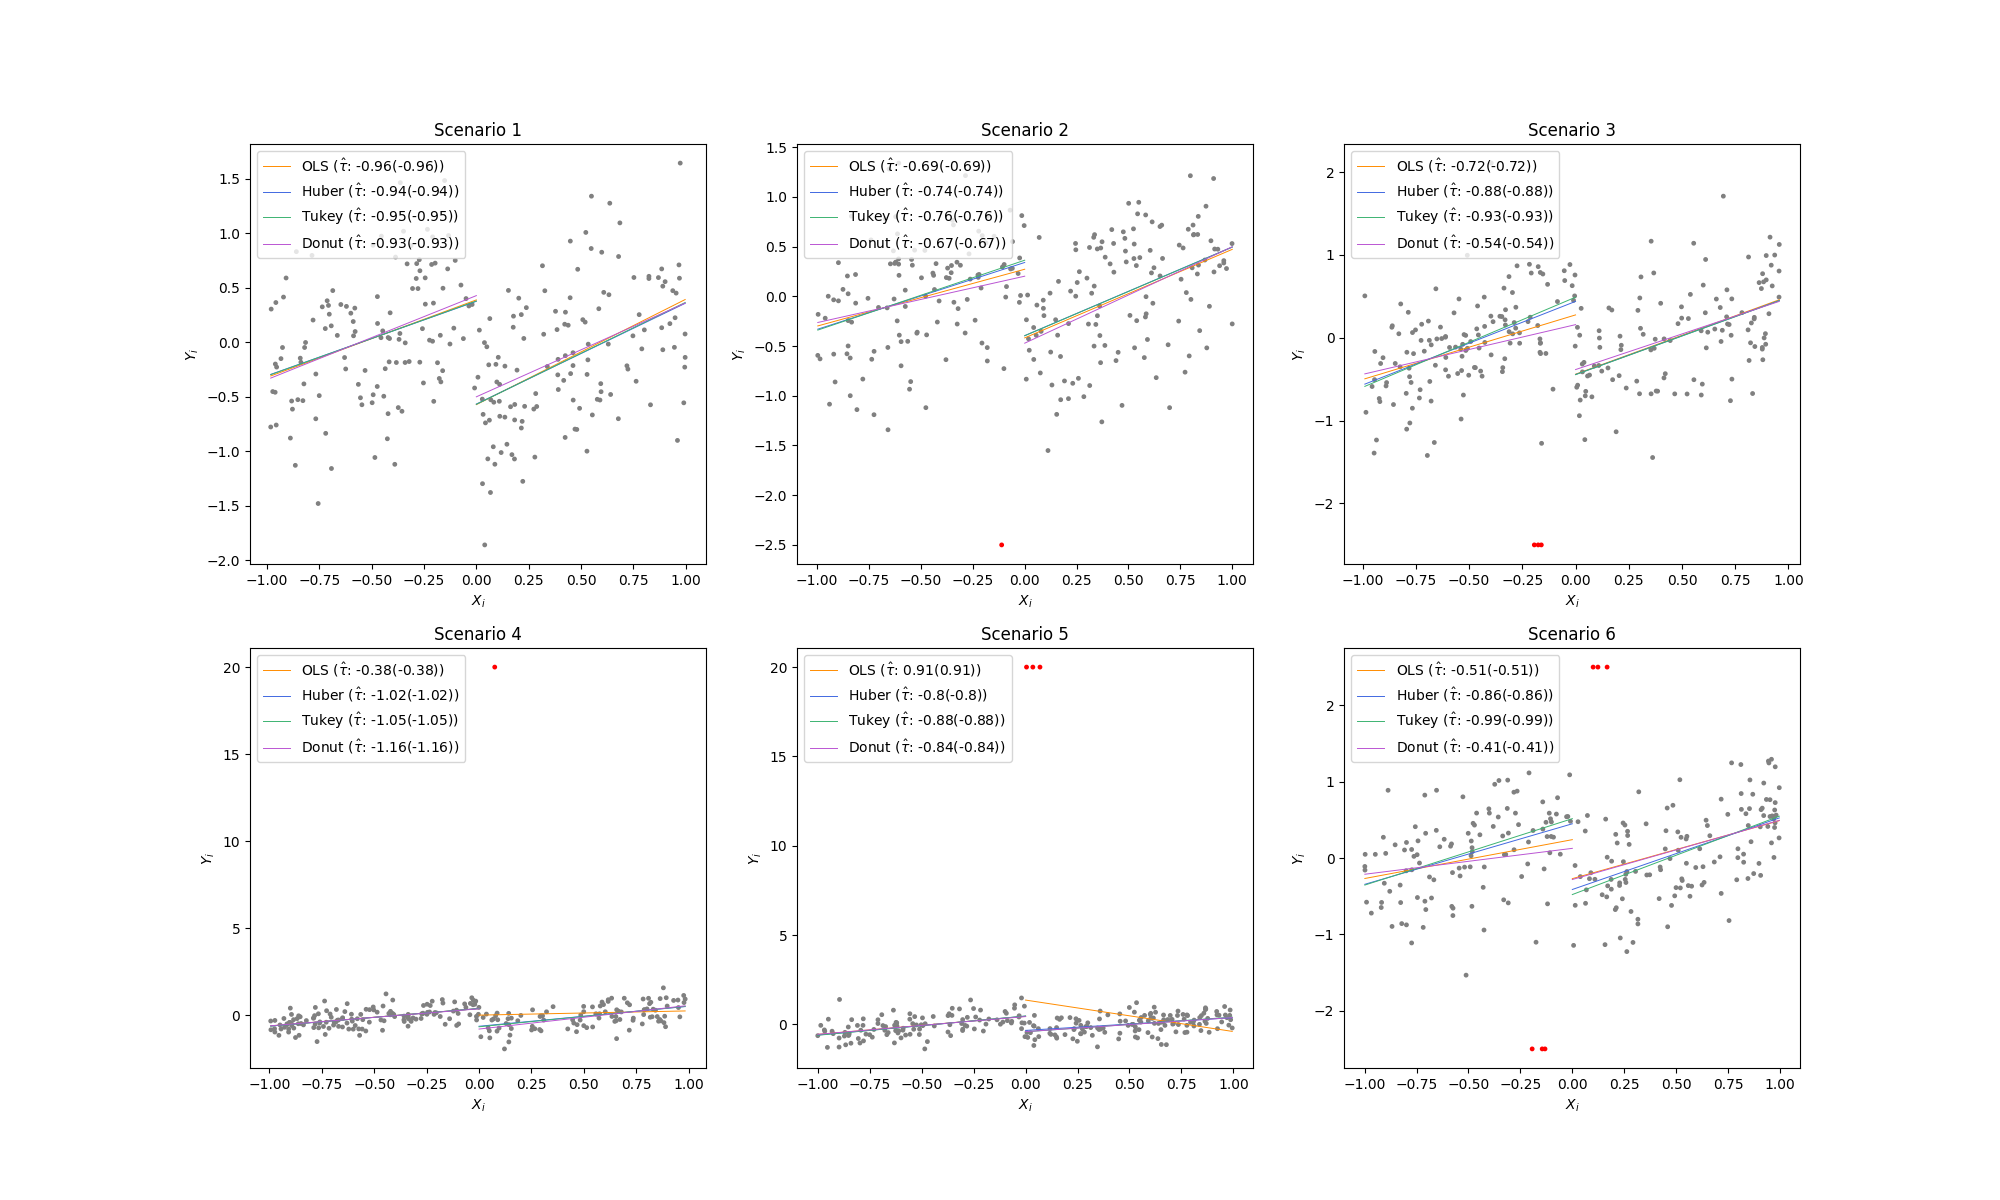
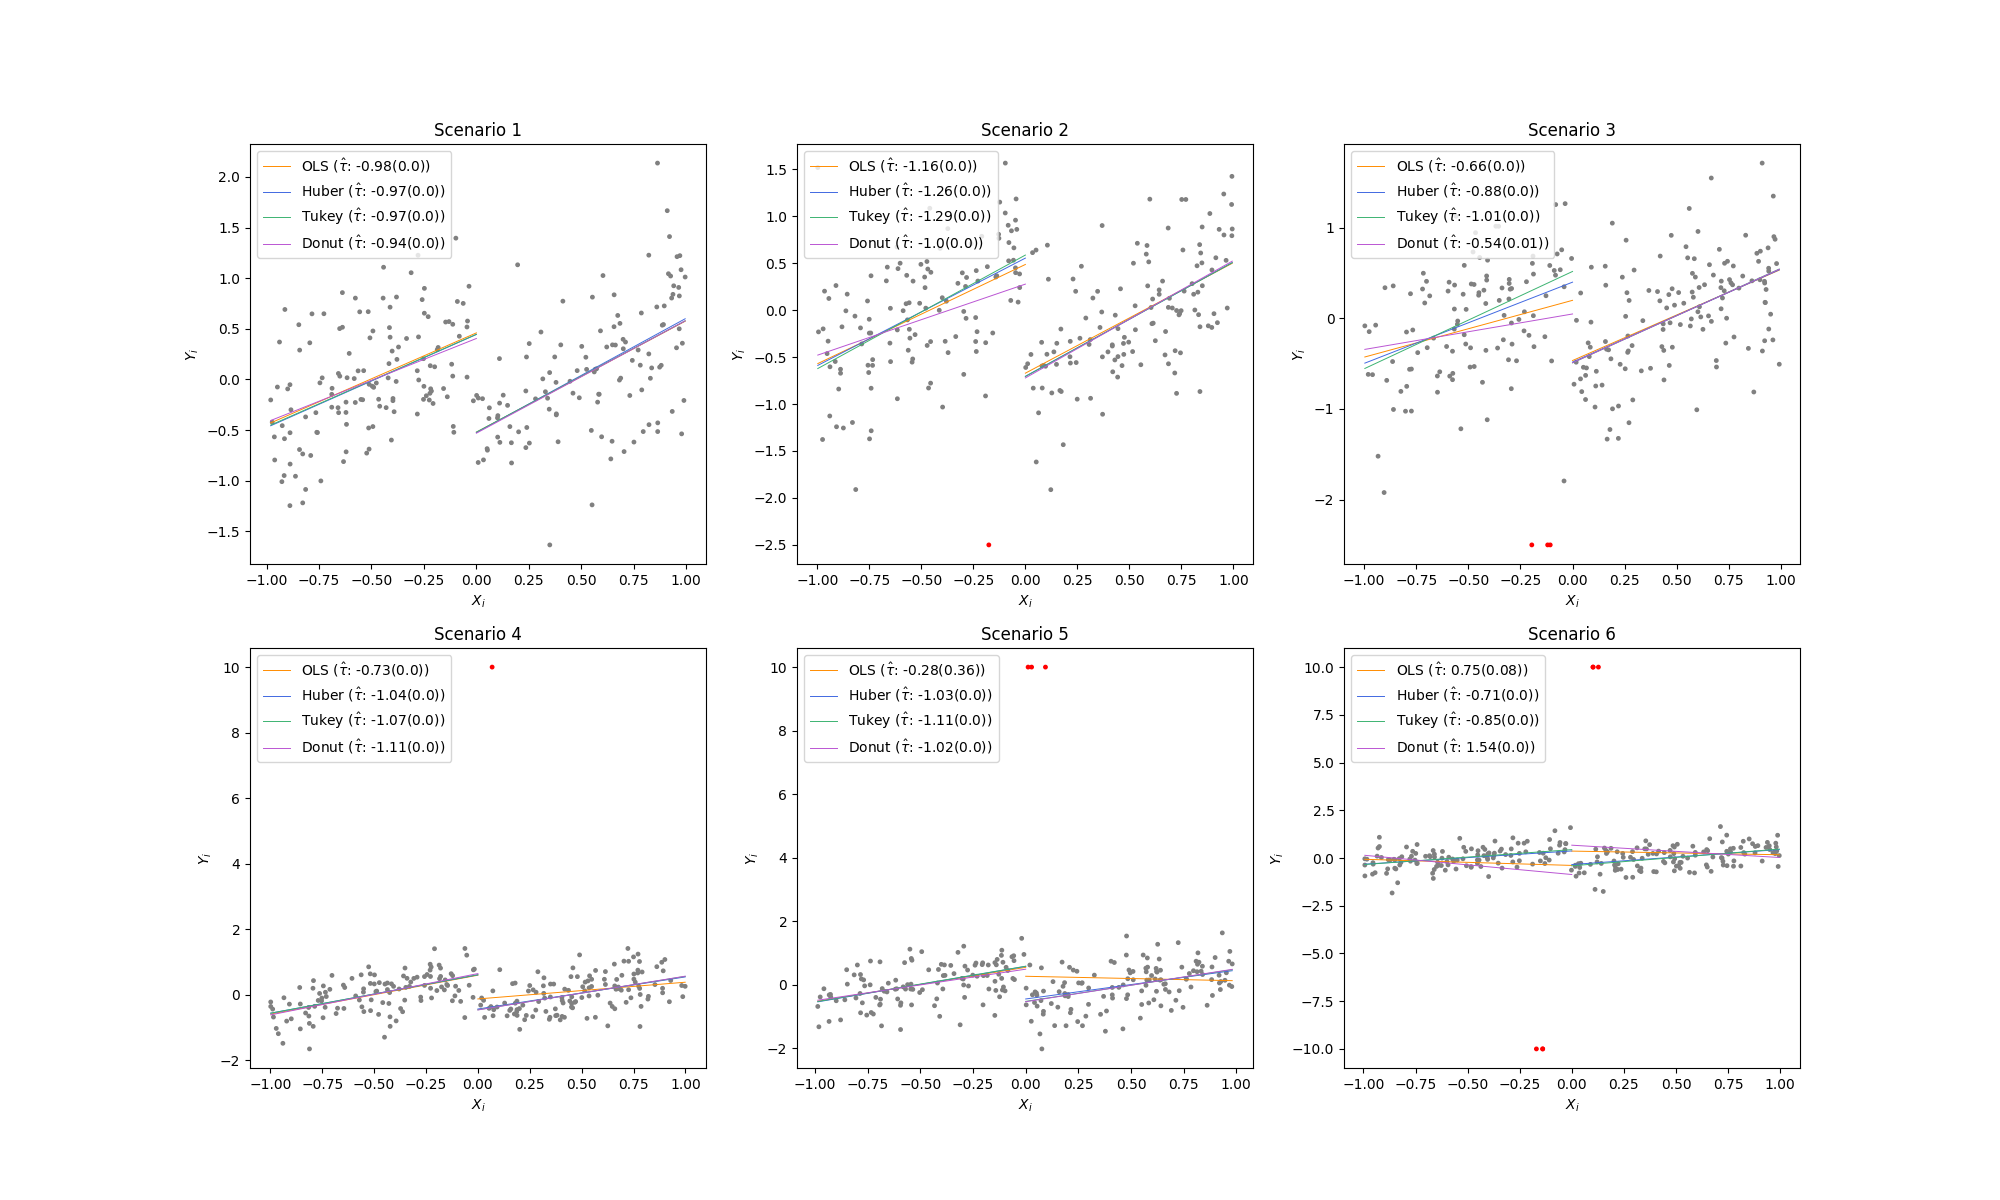
power functions

diff --git a/src/simulation.py b/src/simulation.py
@@ -8,9 +8,15 @@ Author: Francisco Portilha (479126)
 # Public libraries
 import numpy as np
 import pandas as pd
+import matplotlib.pyplot as plt
 
 # My methods. Developed for my thesis.
-from src.exports import plotSamplesComparison, plotScenariosHist, toLatexTable
+from src.exports import (
+    plotPowerFunctionComparison,
+    plotSamplesComparison,
+    plotScenariosHist,
+    toLatexTable,
+)
 from src.rrdd import jointFitRD
 from src.sample import genSample
 from src.simMetrics import compJB, compKurt, compRMSE, compSkew
@@ -259,6 +265,7 @@ def simulation(
     # Return results
     return pointEstimation, testValues, ciValues, firstSample
 
+
 def simulations(r, name, n, tau, alpha, beta, cutoff=0, L=0):
     """
     This method runs various simulations and return the results from all different simulations.
@@ -380,6 +387,105 @@ def simulations(r, name, n, tau, alpha, beta, cutoff=0, L=0):
     return simResults
 
 
-# point6, test6, confInt6, firstSample6 = simulation(
-#        r, name, n, tau=0, L=40, cutoff=cutoff, b=0.5, outlier=False
-#    )
+def powerSimulation(
+    taus,
+    r,
+    nameSample,
+    n,
+    alpha,
+    beta,
+    cutoff,
+    L=0,
+    b=1,
+    outlier=False,
+    outlierMethod="",
+    nOutliers=0,
+):
+
+    rejectionRate = [{}, {}, {}, {}]
+    models = ["OLS", "Robust Huber", "Robust Tuckey", "Donut"]
+
+    for i in range(17):
+        t_rejections = [{}, {}, {}, {}]
+        for k in range(r):
+            # Generate a new sample
+            sample = genSample(
+                nameSample,
+                n,
+                taus[i],
+                alpha,
+                beta,
+                L,
+                cutoff,
+                outlier,
+                outlierMethod,
+                nOutliers,
+                False,
+            )
+            for m in range(len(models)):
+                res = jointFitRD(models[m], sample, cutoff)
+                p = res.pvalues.iloc[2]
+                if p >= 0.05:
+                    t_rejections[m] = np.append(t_rejections[m], 0)
+                else:
+                    t_rejections[m] = np.append(t_rejections[m], 1)
+
+        for m in range(len(models)):
+            t_rejections[m] = np.delete(t_rejections[m], 0)
+            rejectionRate[m] = np.append(rejectionRate[m], t_rejections[m].mean())
+
+    for m in range(len(models)):
+        rejectionRate[m] = np.delete(rejectionRate[m], 0)
+
+    return rejectionRate
+
+
+def powerSimulations(
+    r,
+    nameSample,
+    n,
+    alpha,
+    beta,
+    cutoff,
+):
+    taus = [{}]
+    for i in range(-8, 9):
+        taus = np.append(taus, i / 4)
+    taus = np.delete(taus, 0)
+
+    rejectionRates = (
+        powerSimulation(taus, r, nameSample, n, alpha=0.5, beta=1, cutoff=0),
+        powerSimulation(
+            taus,
+            r,
+            nameSample,
+            n,
+            alpha,
+            beta,
+            cutoff,
+            outlier=True,
+            outlierMethod="Simple",
+            nOutliers=1,
+        ),
+        powerSimulation(
+            taus,
+            r,
+            nameSample,
+            n,
+            alpha,
+            beta,
+            cutoff,
+            outlier=True,
+            outlierMethod="Simple Oposite",
+            nOutliers=3,
+        ),
+    )
+
+    plotPowerFunctionComparison(
+        taus,
+        rejectionRates,
+        True,
+        "images/powerFunctions.png",
+        [1,4,5],
+    )
+

diff --git a/src/exports.py b/src/exports.py
@@ -143,7 +143,6 @@ def plotSamplesComparison(
                 # Fit model
                 res = jointFitRD(model, samples[i], cutoff)
                 params = res.params
-                pvalue = res.pvalues.iloc[2]
 
                 # Plot regression below cutoff
                 axs[j][l].plot(
@@ -163,7 +162,7 @@ def plotSamplesComparison(
                     + r" ($\^τ$: "
                     + str(round(params.iloc[2], 2))
                     + "("
-                    + str(round(params.iloc[2], 2))
+                    + str(round(res.pvalues.iloc[2], 2))
                     + "))",
                 )
                 # Increment model label counter
@@ -178,6 +177,35 @@ def plotSamplesComparison(
             j = 1
             l = -1
         l = l + 1
+
+    # Save figure
+    if saveFig:
+        fig.savefig(figPath)
+    else:
+        return fig
+
+
+def plotPowerFunctionComparison(taus, rejectionRates, saveFig=False, figPath="", scenarioNum=""):
+    fig, axs = plt.subplots(1, 3, figsize=[19, 7])
+    labels = ["OLS", "Huber", "Tukey", "Donut"]
+    colors = ["darkorange", "royalblue", "mediumseagreen", "mediumorchid"]
+
+    # For each scenario
+    for i in range(3):
+        c = 0
+        # Plot the power functions
+        for m in range(len(labels)):
+            axs[i].plot(
+                taus, rejectionRates[i][m], color=colors[m], label=labels[m], linewidth=0.8
+            )
+        axs[i].plot(taus, 0.05 + np.zeros_like(taus), color="r", linewidth=0.8)
+        axs[i].set_ylabel("rejection rate")
+        axs[i].set_xlabel("$τ$")
+        axs[i].set_title("Scenario "+ str(scenarioNum[i]))
+
+        # Increment figure location
+        if i == 0:
+            axs[i].legend()
 
     # Save figure
     if saveFig:

diff --git a/src/sample.py b/src/sample.py
@@ -262,7 +262,7 @@ def genOutlier(Y, X, name, nOutliers=1, delta=0.1):
             # Find first observation in the stripe and change outcome value to 2.5
             while notFound & (i < len(X)):
                 if (X[i] <= delta) & (X[i] > 0):
-                    Y[i] = 20
+                    Y[i] = 10
                     Outliers[i] = 1
                     notFound = False
                 i = i + 1
@@ -307,7 +307,7 @@ def genOutlier(Y, X, name, nOutliers=1, delta=0.1):
             # change outcome value to -2.5
             while notFound & (i < len(X)):
                 if (X[i] >= -2 * delta) & (X[i] < -delta):
-                    Y[i] = -2.5
+                    Y[i] = -10
                     Outliers[i] = 1
                     notFound = False
                     i = i + 1
@@ -319,7 +319,7 @@ def genOutlier(Y, X, name, nOutliers=1, delta=0.1):
             # change outcome value to 2.5
             while notFound & (j < len(X)):
                 if (X[j] <= 2 * delta) & (X[j] > delta):
-                    Y[j] = 2.5
+                    Y[j] = 10
                     Outliers[j] = 1
                     notFound = False
                     j = j + 1

diff --git a/dev.py b/dev.py
@@ -5,6 +5,7 @@ import src.simMetrics as met
 import src.exports as exp
 import statsmodels.api as sm
 import pandas as pd
+import numpy as np
 
 ### Test sample
 #sample = smp.genSample('Basic Linear',250,tau=-1,alpha=0.5,beta=1,L=200,outlier=False,outlierMethod='Simple Outside', nOutliers=5,printPlot=False)
@@ -36,9 +37,17 @@ import pandas as pd
 #
 ##
 # exp.scenariosHist(p, True, 'images/testfig1.png')
+#
+#r = 2
+#n = 250
+#
+#simResults = sim.simulations(r, "Basic Linear", n, tau=-1, alpha=0.5, beta=1, cutoff=0)
+#met.analyseSimResults(simResults)
 
-r = 2
-n = 250
+r=100
+n=250
+sim.powerSimulations(r, "Basic Linear", n, alpha=0.5, beta=1, cutoff=0)
 
-simResults = sim.simulations(r, "Basic Linear", n, tau=-1, alpha=0.5, beta=1, cutoff=0)
-met.analyseSimResults(simResults)
+# point6, test6, confInt6, firstSample6 = simulation(
+#        r, name, n, tau=0, L=40, cutoff=cutoff, b=0.5, outlier=False
+#    )
